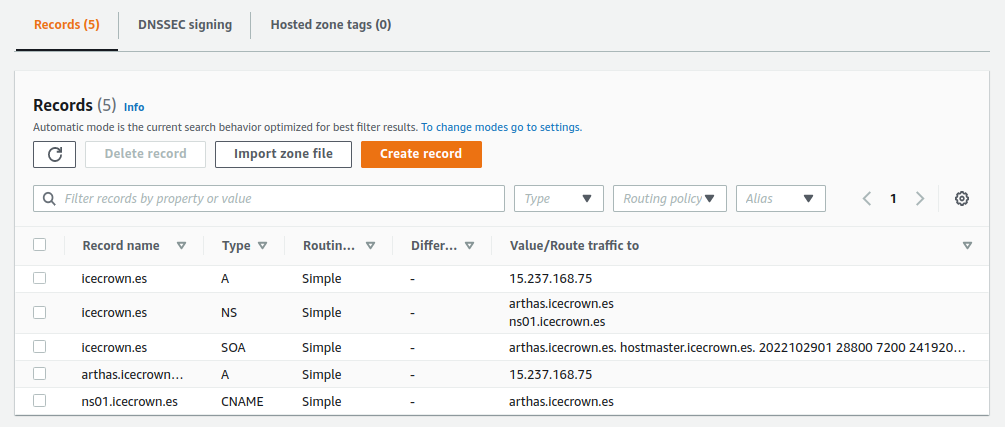
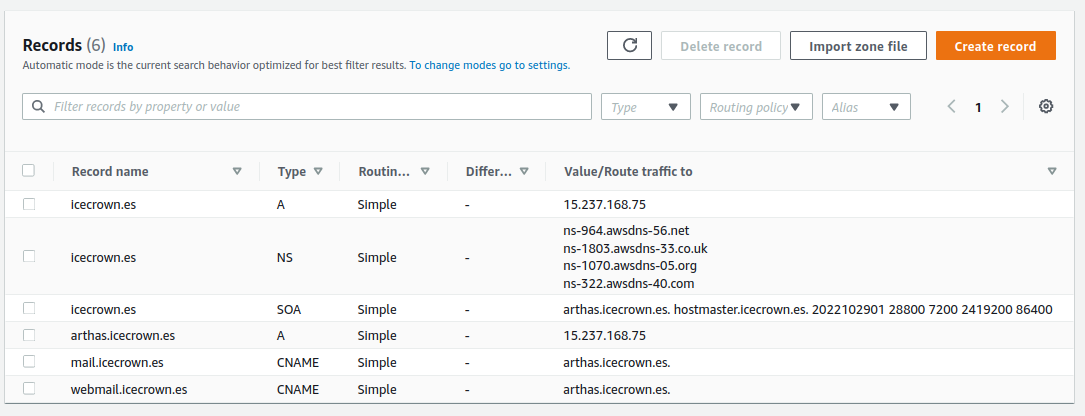
Mas cambios en la doc de conf

diff --git a/docs/zentyal-configuration.md b/docs/zentyal-configuration.md
@@ -490,11 +490,13 @@ El primero de los módulos recién instalado que vamos a configurar es [NTP], en
 
 ### Módulo de DNS
 
-El siguiente módulo que procederemos a configurar será el [DNS].
+El siguiente módulo que procederemos a configurar será el [DNS], el cual es crítico para el funcionamiento del módulo de controlador de dominio y por dependencia, el de correo también.
 
 [DNS]: https://doc.zentyal.org/es/dns.html
 
-1. Creamos el dominio, el cual deberá ser el mismo que el que configuramos inicialmente desde `System -> General`. Para ello, desde el menú lateral seleccionamos `DNS`:
+La configuración que estableceremos será mínima, ya que la gestión de los registros DNS la gestionaremos desde el panel de administración donde tenemos contratado el dominio - Route 53 en mi caso -.
+
+1. Creamos el dominio, el cual debe ser el mismo que el que configuramos inicialmente desde `System -> General`. Para ello, desde el menú lateral seleccionamos `DNS`:
 
     ![DNS new domain](images/zentyal/dns-new_domain.png "DNS new domain")
 
@@ -506,11 +508,11 @@ El siguiente módulo que procederemos a configurar será el [DNS].
 
     ![DNS hostname record](images/zentyal/dns-hostname_record.png "DNS hostname record")
 
-4. A continuación, crearemos los registros adicionales relativos al servidor y entorno que deseemos. En mi caso concreto, crearé varios alias para el nombre del servidor, dos de ello serán relativos al correo: `mail` y `webmail` y otro adicional para el DNS `ns01`. Estos registros los añadimos desde: `Hostnames -> Alias`.
+4. A continuación, crearemos los registros adicionales de tipo alias desde `Hostnames -> Alias`. En mi caso, crearé dos registros relativos al correo: `mail` y `webmail`. **>>TODO<<** Eliminar registro ns01
 
     ![DNS alias records](images/zentyal/dns-alias.png "DNS alias records")
 
-5. Los servidores DNS forwarders que estableceré en mi caso serán los de [OpenDNS]: **>>TODO<<**
+5. Los servidores DNS forwarders que estableceré en mi caso serán los de [Cloudflare] y [Quad9]:
 
     ![DNS forwarders](images/zentyal/dns-forwarders.png "DNS forwarders")
 
@@ -518,20 +520,21 @@ El siguiente módulo que procederemos a configurar será el [DNS].
 
     ![DNS enable](images/zentyal/modules_dns.png "DNS enable")
 
-7. Lo siguiente que haremos será comprobar que podemos resolver los registros DNS configurados desde el propio servidor. Para ello, ejecutaremos los siguientes comandos:
+7. Finalmente, comprobaremos que podemos resolver los registros DNS configurados desde el propio servidor. Para ello, ejecutaremos los siguientes comandos:
 
     ```sh
     ## Para el dominio
     dig icecrown.es
 
-    ## Para el hostname del servidor
+    ## Para el nombre del servidor
     dig arthas.icecrown.es
 
     ## Para los alias
-    for domain in mail webmail ns01; do dig @127.0.0.1 $domain.icecrown.es; done
+    dig mail.icecrown.es
+    dig webmail.icecrown.es
     ```
 
-    A continuación, los resultados que he obtenido:
+    A continuación, los resultados que he obtenido: **>>TODO<<** Volver a añadir los resultados.
 
     ```text
     ## Para el dominio
@@ -556,7 +559,7 @@ El siguiente módulo que procederemos a configurar será el [DNS].
     ;; MSG SIZE  rcvd: 84
 
 
-    ## Para el hostname del servidor
+    ## Para el nombre del servidor
     ; <<>> DiG 9.16.1-Ubuntu <<>> arthas.icecrown.es
     ;; global options: +cmd
     ;; Got answer:
@@ -624,184 +627,55 @@ El siguiente módulo que procederemos a configurar será el [DNS].
     ;; SERVER: 127.0.0.1#53(127.0.0.1)
     ;; WHEN: Sat Oct 29 22:02:37 CEST 2022
     ;; MSG SIZE  rcvd: 113
-
-    ## Alias 3
-    ; <<>> DiG 9.16.1-Ubuntu <<>> @127.0.0.1 ns01.icecrown.es
-    ; (1 server found)
-    ;; global options: +cmd
-    ;; Got answer:
-    ;; ->>HEADER<<- opcode: QUERY, status: NOERROR, id: 31130
-    ;; flags: qr aa rd ra; QUERY: 1, ANSWER: 2, AUTHORITY: 0, ADDITIONAL: 1
-
-    ;; OPT PSEUDOSECTION:
-    ; EDNS: version: 0, flags:; udp: 4096
-    ; COOKIE: a140667468c77ab801000000635d86dd5cab7a79b2a70aa0 (good)
-    ;; QUESTION SECTION:
-    ;ns01.icecrown.es.		IN	A
-
-    ;; ANSWER SECTION:
-    ns01.icecrown.es.	259200	IN	CNAME	arthas.icecrown.es.
-    arthas.icecrown.es.	259200	IN	A	10.0.1.200
-
-    ;; Query time: 0 msec
-    ;; SERVER: 127.0.0.1#53(127.0.0.1)
-    ;; WHEN: Sat Oct 29 22:02:37 CEST 2022
-    ;; MSG SIZE  rcvd: 110
     ```
 
-    **NOTA:** Como se puede apreciar, el `status` de todos es '**NOERROR**' y además, en todos ellos devuelve una respuesta en '**ANSWER SECTION**'.
+    Como se puede apreciar, el `status` de todos es '**NOERROR**' y en '**ANSWER SECTION**' muestra los registros DNS en cuestión.
 
-[OpenDNS]: https://www.opendns.com/
+[Cloudflare]: https://www.cloudflare.com/es-es/
+[Quad9]: https://www.quad9.net/es/
 
-Llegados a este punto, el módulo estaría configurado, no obstante, los registros sólo serán válidos en el propio servidor Zentyal, debido a que no hemos aplicado cambio alguno en el proveedor DNS donde tenemos alojado y gestionado nuestro dominio. En caso de que queramos que el módulo DNS del servidor Zentyal sea autoritativo, tendremos que modificar los registros `NS` del proveedor DNS para que apunten al servidor Zentyal, de esta forma, todo registro creado en Zentyal podrá ser resuelto públicamente.
+Llegados a este punto, el módulo estaría configurado en Zentyal, no obstante, todavía queda crear los registros con la IP pública del servidor en el proveedor DNS para que estos sean visibles externamente. A continuación los pasos a realizar para AWS Route53:
 
-En mi caso concreto, voy a realizar esta tarea desde [AWS Route 53] - que es mi proveedor DNS -, y usaré los registros `arthas` y `ns01` creados como registros `NS`.
-
-1. Desde la consola de AWS, vamos a `Route53 -> Registered domains` y modificamos los registros `NS` mencionados:
-
-    ![DNS Route53 registered domain](images/zentyal/dns-route53_registered.png "DNS Route53 registered domain")
-
-2. Después, desde `Route53 -> Hosted zones` creamos en la zona del dominio los registros para el funcionamiento:
-
-    **NOTA:** Pueden tardar varios minutos en actualizarse los registros indicados en la '*información de la zona*'.
+1. Vamos a `Route 53 -> Hosted zones -> dominio` y creamos los mismos registros que en Zentyal pero con la IP pública:
 
     ![DNS Route53 domain records](images/zentyal/dns-route53_records.png "DNS Route53 domain records")
 
-3. Finalmente, comprobaremos que podemos resolver los registros desde el exterior:
+2. Esperamos unos minutos para que puedan replicarse globalmente.
+
+3. Finalmente, comprobamos la resolución de los registros:
 
     ```sh
     ## Para el dominio
-    dig icecrown.es
+    dig @8.8.8.8 icecrown.es
 
-    ## Para el hostname del servidor
-    dig arthas.icecrown.es
+    ## Para el nombre del servidor
+    dig @8.8.8.8 arthas.icecrown.es
 
     ## Para los alias
-    for domain in mail webmail ns01; do dig @127.0.0.1 $domain.icecrown.es; done
+    dig @8.8.8.8 mail.icecrown.es
+    dig @8.8.8.8 webmail.icecrown.es
     ```
 
-    A continuación, los resultados que he obtenido:
+    A continuación, los resultados que he obtenido: **>>TODO<<** Volver a añadir los resultados.
 
     ```text
     ## Para el dominio
-    ; <<>> DiG 9.16.1-Ubuntu <<>> icecrown.es
-    ;; global options: +cmd
-    ;; Got answer:
-    ;; ->>HEADER<<- opcode: QUERY, status: NOERROR, id: 45120
-    ;; flags: qr rd ra; QUERY: 1, ANSWER: 2, AUTHORITY: 0, ADDITIONAL: 1
-
-    ;; OPT PSEUDOSECTION:
-    ; EDNS: version: 0, flags:; udp: 65494
-    ;; QUESTION SECTION:
-    ;icecrown.es.			IN	A
-
-    ;; ANSWER SECTION:
-    icecrown.es.		21600	IN	A	10.0.1.200
-    icecrown.es.		21600	IN	A	15.237.168.75
-
-    ;; Query time: 35 msec
-    ;; SERVER: 127.0.0.53#53(127.0.0.53)
-    ;; WHEN: dom feb 12 16:27:16 CET 2023
-    ;; MSG SIZE  rcvd: 72
 
 
-    ## Para el hostname del servidor
-    ; <<>> DiG 9.16.1-Ubuntu <<>> arthas.icecrown.es
-    ;; global options: +cmd
-    ;; Got answer:
-    ;; ->>HEADER<<- opcode: QUERY, status: NOERROR, id: 48798
-    ;; flags: qr rd ra; QUERY: 1, ANSWER: 2, AUTHORITY: 0, ADDITIONAL: 1
 
-    ;; OPT PSEUDOSECTION:
-    ; EDNS: version: 0, flags:; udp: 65494
-    ;; QUESTION SECTION:
-    ;arthas.icecrown.es.		IN	A
+    ## Para el nombre del servidor
 
-    ;; ANSWER SECTION:
-    arthas.icecrown.es.	21344	IN	A	10.0.1.200
-    arthas.icecrown.es.	21344	IN	A	15.237.168.75
-
-    ;; Query time: 0 msec
-    ;; SERVER: 127.0.0.53#53(127.0.0.53)
-    ;; WHEN: dom feb 12 16:28:00 CET 2023
-    ;; MSG SIZE  rcvd: 79
 
 
     ## Para los alias
     ## Alias 1
-    ; <<>> DiG 9.16.1-Ubuntu <<>> @127.0.0.1 mail.icecrown.es
-    ; (1 server found)
-    ;; global options: +cmd
-    ;; Got answer:
-    ;; ->>HEADER<<- opcode: QUERY, status: NOERROR, id: 21571
-    ;; flags: qr rd ra; QUERY: 1, ANSWER: 3, AUTHORITY: 0, ADDITIONAL: 1
 
-    ;; OPT PSEUDOSECTION:
-    ; EDNS: version: 0, flags:; udp: 4096
-    ; COOKIE: b8ed6e85559044b30100000063e9059adadee2c519ea0e09 (good)
-    ;; QUESTION SECTION:
-    ;mail.icecrown.es.		IN	A
-
-    ;; ANSWER SECTION:
-    mail.icecrown.es.	21600	IN	CNAME	arthas.icecrown.es.
-    arthas.icecrown.es.	21318	IN	A	10.0.1.200
-    arthas.icecrown.es.	21318	IN	A	15.237.168.75
-
-    ;; Query time: 51 msec
-    ;; SERVER: 127.0.0.1#53(127.0.0.1)
-    ;; WHEN: dom feb 12 16:28:26 CET 2023
-    ;; MSG SIZE  rcvd: 126
 
 
     ## Alias 2
-    ; <<>> DiG 9.16.1-Ubuntu <<>> @127.0.0.1 webmail.icecrown.es
-    ; (1 server found)
-    ;; global options: +cmd
-    ;; Got answer:
-    ;; ->>HEADER<<- opcode: QUERY, status: NOERROR, id: 23686
-    ;; flags: qr rd ra; QUERY: 1, ANSWER: 3, AUTHORITY: 0, ADDITIONAL: 1
-
-    ;; OPT PSEUDOSECTION:
-    ; EDNS: version: 0, flags:; udp: 4096
-    ; COOKIE: 4aa92f2de94d09010100000063e9059a8f53de53ddbcbda7 (good)
-    ;; QUESTION SECTION:
-    ;webmail.icecrown.es.		IN	A
-
-    ;; ANSWER SECTION:
-    webmail.icecrown.es.	21600	IN	CNAME	arthas.icecrown.es.
-    arthas.icecrown.es.	21318	IN	A	10.0.1.200
-    arthas.icecrown.es.	21318	IN	A	15.237.168.75
-
-    ;; Query time: 39 msec
-    ;; SERVER: 127.0.0.1#53(127.0.0.1)
-    ;; WHEN: dom feb 12 16:28:26 CET 2023
-    ;; MSG SIZE  rcvd: 129
-
-
-    ## Alias 3
-    ; <<>> DiG 9.16.1-Ubuntu <<>> @127.0.0.1 ns01.icecrown.es
-    ; (1 server found)
-    ;; global options: +cmd
-    ;; Got answer:
-    ;; ->>HEADER<<- opcode: QUERY, status: NOERROR, id: 22370
-    ;; flags: qr rd ra; QUERY: 1, ANSWER: 3, AUTHORITY: 0, ADDITIONAL: 1
-
-    ;; OPT PSEUDOSECTION:
-    ; EDNS: version: 0, flags:; udp: 4096
-    ; COOKIE: 383f9a085baef07a0100000063e9059a895e1947819ec7b4 (good)
-    ;; QUESTION SECTION:
-    ;ns01.icecrown.es.		IN	A
-
-    ;; ANSWER SECTION:
-    ns01.icecrown.es.	21600	IN	CNAME	arthas.icecrown.es.
-    arthas.icecrown.es.	21318	IN	A	10.0.1.200
-    arthas.icecrown.es.	21318	IN	A	15.237.168.75
-
-    ;; Query time: 31 msec
-    ;; SERVER: 127.0.0.1#53(127.0.0.1)
-    ;; WHEN: dom feb 12 16:28:26 CET 2023
-    ;; MSG SIZE  rcvd: 126
     ```
+
+Tras confirmar el funcionamiento del dominio tanto internamente (desde Zentyal) como externamente, el módulo de DNS estará correctamente configurado y podremos proseguir con el siguiente módulo.
 
 ### Módulo de Controlador de dominio
 
